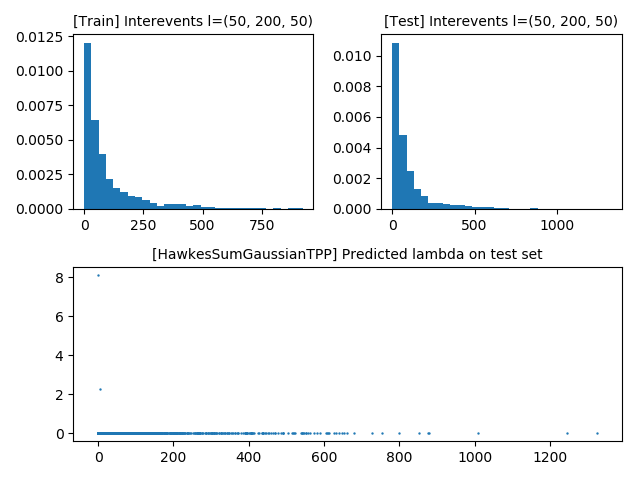
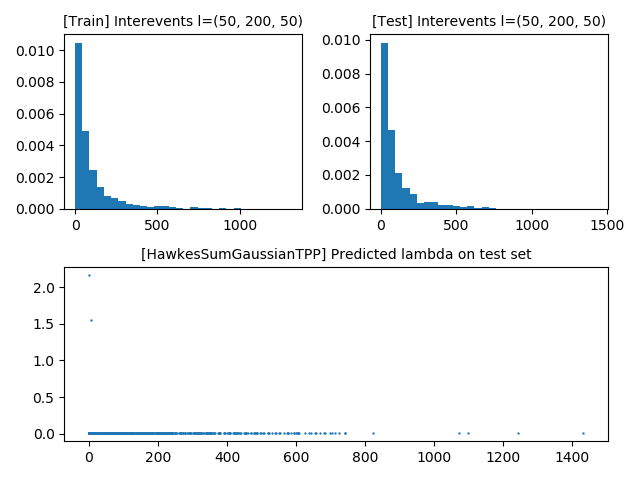
commented clip

diff --git a/src/v2/BaseBaselineTraining.py b/src/v2/BaseBaselineTraining.py
@@ -116,7 +116,7 @@ def fit(model, train_time, test_time, in_size, lr, method="Euler", no_steps=10, 
             z_, integral_ = integral(model, train_time, in_size, no_steps=no_steps, h=h, method=method)
         train_loss = loss(z_, integral_)
         train_loss.backward()
-        torch.nn.utils.clip_grad_norm_(model.parameters(), 1)
+        # torch.nn.utils.clip_grad_norm_(model.parameters(), 1)
         optimizer_1.step()
 
         train_losses.append(train_loss.data.numpy().flatten()[0])
